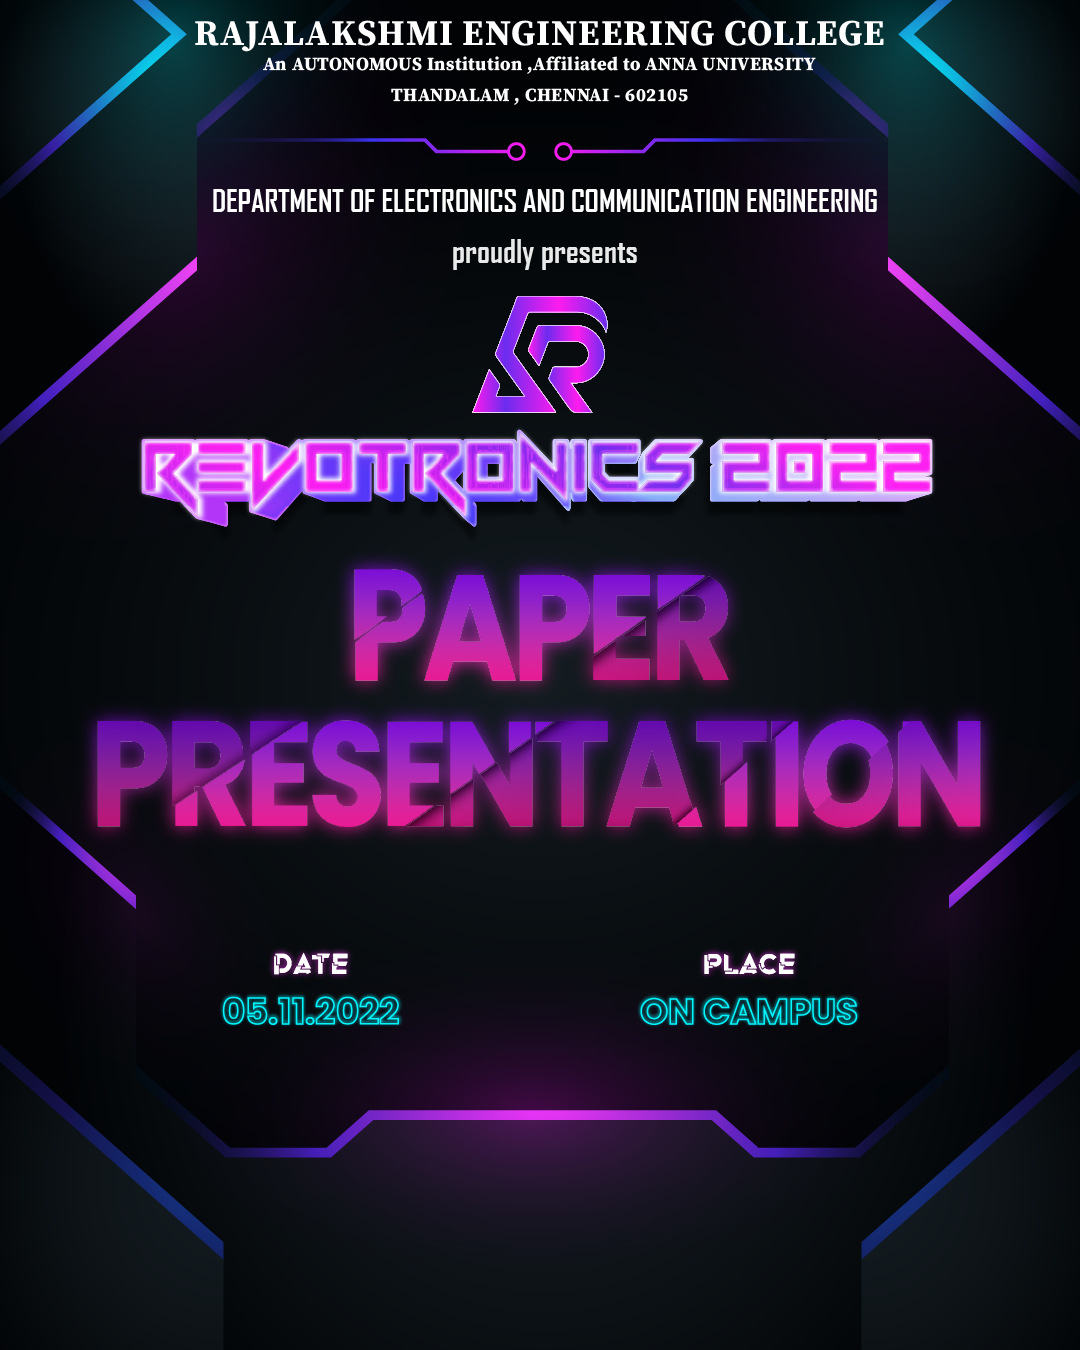
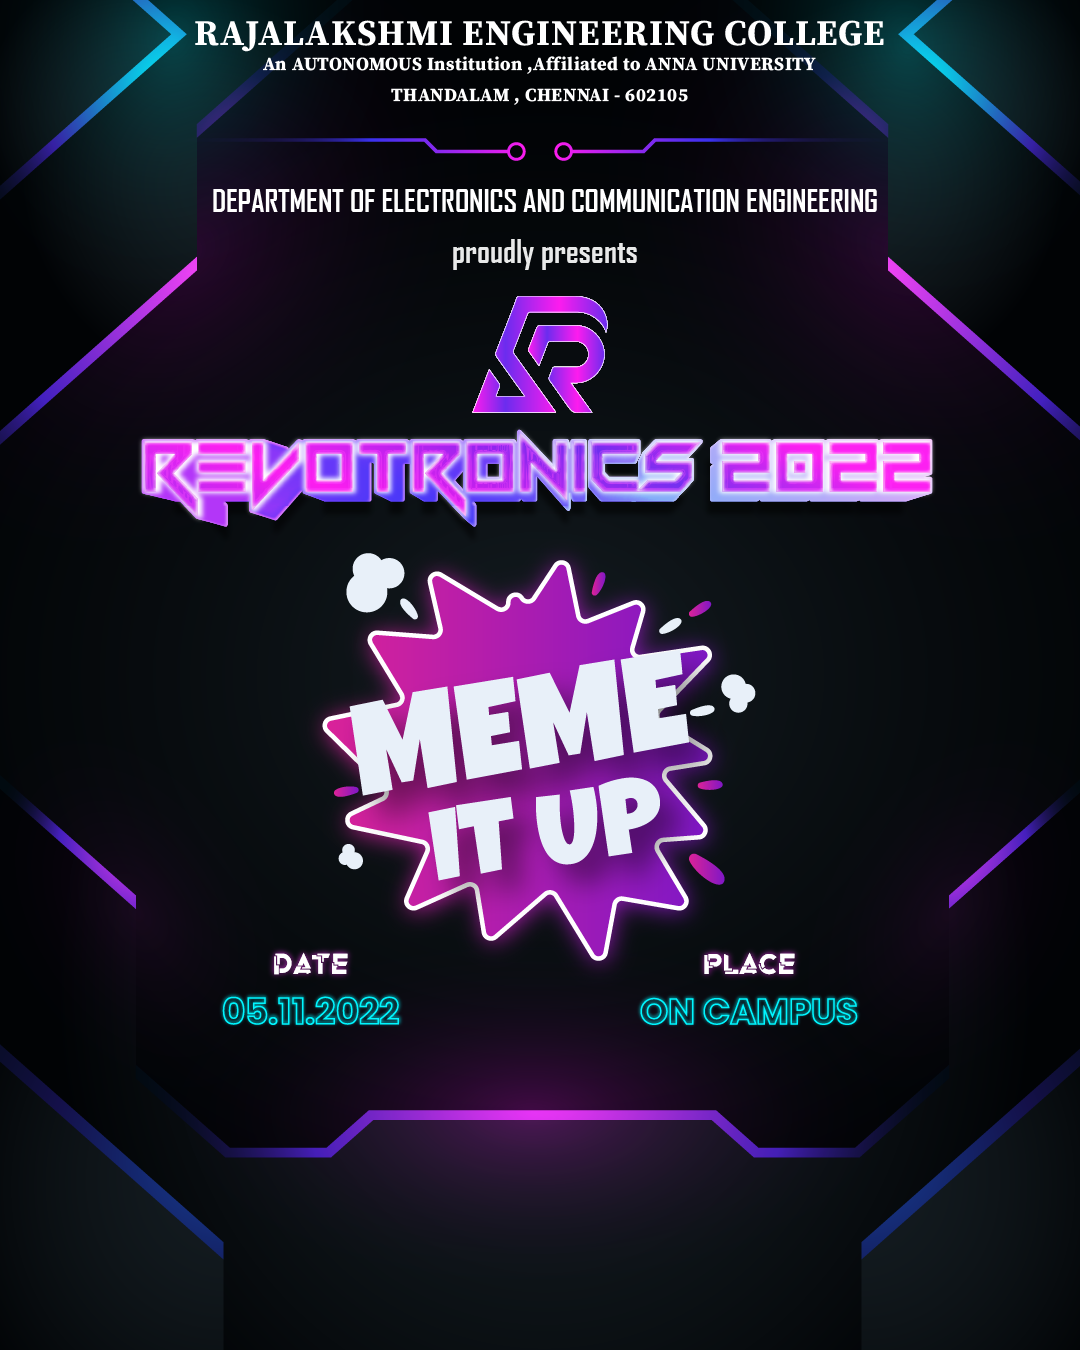
page 7

Changed region(s): [[0.0611, 0.4044, 0.9167, 0.7156]]

diff --git a/page7.html b/page7.html
@@ -3,7 +3,7 @@
     <meta charset="UTF-8">
     <meta http-equiv="X-UA-Compatible" content="IE=edge">
     <meta name="viewport" content="width=device-width, initial-scale=1.0">
-    <title>Paper Presentation</title>
+    <title>Meme It Up</title>
     <link rel="icon" type="image/x-icon" href="./img/rogo.png">
     <link href="https://fonts.googleapis.com/css?family=Varela+Round" rel="stylesheet" />
     <link href="https://fonts.googleapis.com/css?family=Nunito:200,200i,300,300i,400,400i,600,600i,700,700i,800,800i,900,900i" rel="stylesheet" />
@@ -25,17 +25,17 @@
     <div id="herodiv" class="vhcontainer myFlex centerFlex">
         <div id="herotext">
             <img src="./img/rogo.png" id="herologo" />
-            <h1 id="herotitle" class="extraBold gradient0" style="-webkit-text-stroke:0px transparent;">Paper Presentation</h1>
+            <h1 id="herotitle" class="extraBold gradient0" style="-webkit-text-stroke:0px transparent;">Meme It Up</h1>
         </div>
     </div>
 
     <!-- About div -->
     <div id="aboutdiv" class="vhcontainer myFlex centerFlex" style="height:70vh;">
         <div class="column2flex_page">
-            <img onclick="openInNewTab('./img/page0/eventImage.png')" src="./img/page0/eventImage.png" class="columnImage" style="position:relative;z-index:10015;" />
+            <img onclick="openInNewTab('./img/page7/eventImage.png')" src="./img/page7/eventImage.png" class="columnImage" style="position:relative;z-index:10015;" />
             <div class="myFlex centerFlex columnText">
                 <p>
-                    Reliable Engineers takes many forms, one of which is a presentor. Present and get recognized for your work. The success of your presentation will be measured not by what you say, but rather by what the listener understands.
+                    Meme creators out there !<br>It's high time for you to showcase your skills express your thoughts on the given topic. We are more than excited to know your untold perspective.
                 </p>
             </div>
         </div>

diff --git a/index.html b/index.html
@@ -72,7 +72,7 @@
                     <li onclick="myScrollTo('cluedo')"><h4>Clue Do</h4></li>
                     <li onclick="myScrollTo('blockandtackle')"><h4>Block & Tackle</h4></li>
                     <li onclick="myScrollTo('spinayarn')"><h4>Spin A Yarn</h4></li>
-                    <li onclick="myScrollTo('memeit')"><h4>Meme It</h4></li>
+                    <li onclick="myScrollTo('memeit')"><h4>Meme It Up</h4></li>
                 </ul>
             </div>
         </div>
@@ -171,12 +171,12 @@
     </div>
 
     <br><br>
-    <h3 class="myHeader extraBold gradient0" style="margin-bottom:3rem;">Meme It</h3>
+    <h3 class="myHeader extraBold gradient0" style="margin-bottom:3rem;">Meme It Up</h3>
     <div id="memeit" class="myFlex centerFlex">
         <div class="column2flex">
             <div class="myFlex centerFlex columnText" style="margin-top:0 !important;">
                 <p style="margin:2rem;margin-top:0 !important;margin-left:0;margin-right:0;">
-                    Meme creators out there !<br>It's high time for you to showcase your skills express your thoughts on the given topic. We are more than excited to know your untold perspective.<br><button onclick="window.open('./page0.html', '_blank').focus();" class="btn extraBold knowmore" style="margin:1rem;">Know more <i class="bi bi-arrow-up-right-square-fill"></i></button>
+                    Meme creators out there !<br>It's high time for you to showcase your skills express your thoughts on the given topic. We are more than excited to know your untold perspective.<br><button onclick="window.open('./page7.html', '_blank').focus();" class="btn extraBold knowmore" style="margin:1rem;">Know more <i class="bi bi-arrow-up-right-square-fill"></i></button>
                 </p>
             </div>
             <img src="./img/bgwithfangs.png" class="columnImage" onclick="window.open('./img/poster.png', '_blank').focus();" />
